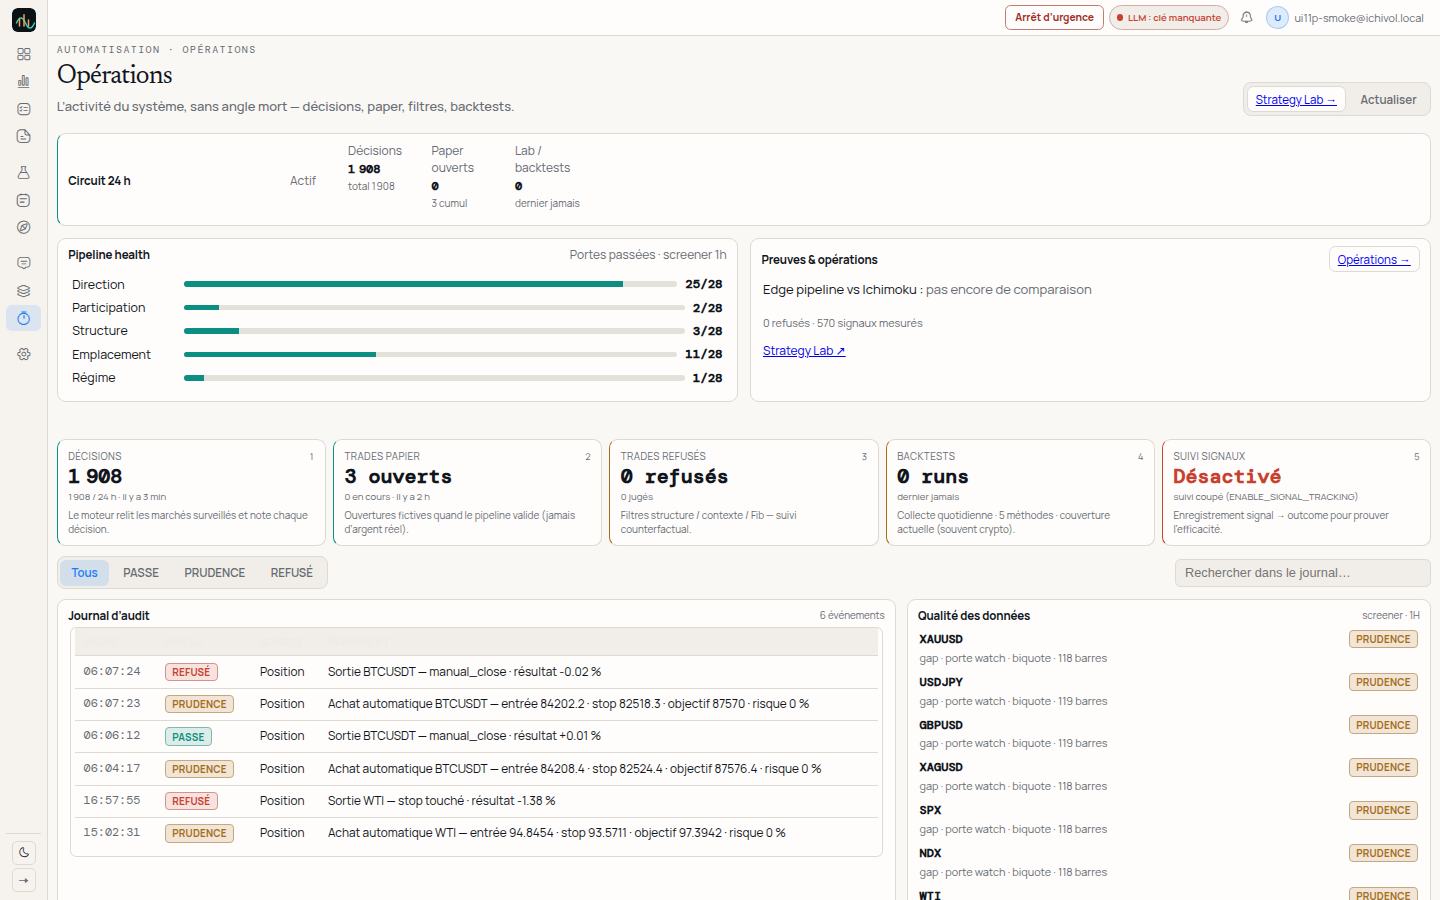
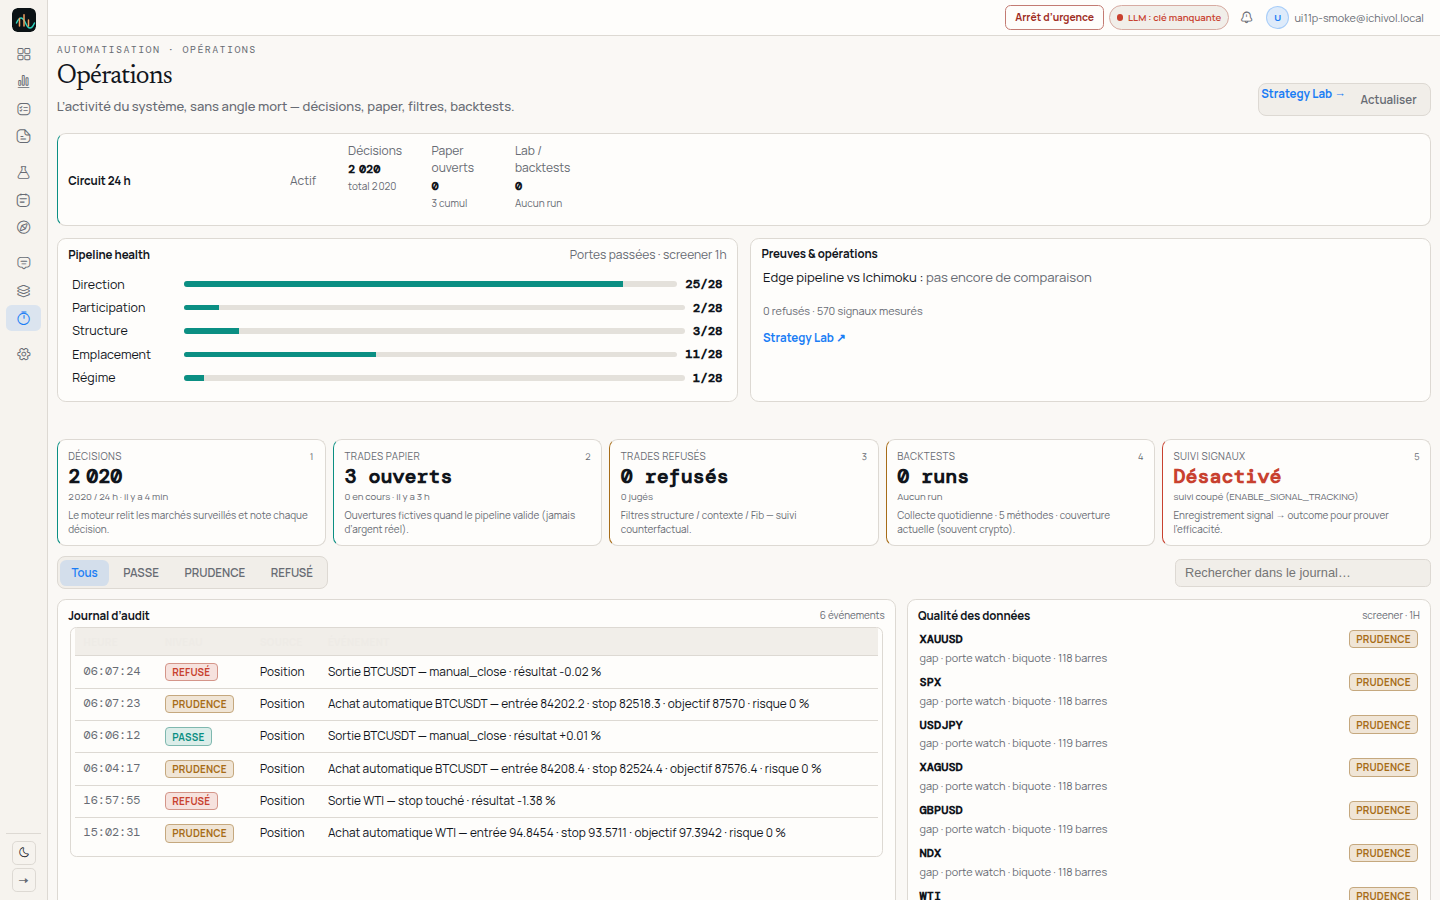
docs(ui-p3): smoke captures + handoff merge/VPS
Smoke desktop+mobile 390 PASS — Aucun run, pas de self-link Opérations,
liens accent. Handoff prêt merge #101 + déploiement VPS.

diff --git a/docs/HANDOFF-CURSOR-V3.md b/docs/HANDOFF-CURSOR-V3.md
@@ -7,13 +7,27 @@ Claude lit ce fichier sur GitHub et relit le diff de la PR associée.
 
 ---
 
+## 2026-09-25 — UI-P3 corrections + merge + VPS
+
+- PR : https://github.com/samiriggui-code/IchiVol/pull/101 — squash merge après corrections
+- Branche : `cursor/ui-p3-journal-ops-a2fe` · tip `c92201b` (+ captures smoke)
+- **Exception server minimale** : `PATCH /api/decisions/:id` accepte `note` (trim, max 500, vide→null) · ownership user → 404 sinon · update in-place (archivée sans doublon)
+- Client : `patchUserDecisionNote` · Journal n’utilise plus `confirmUserDecision` pour la note
+- Opérations : liens accent (pas de soulignement bleu) · pas de self-link « Opérations → » · « Aucun run » si jamais de backtest
+- Tests : `server/.../patchNote.test.ts` 8/8 · lint/build · `scripts/smoke-ui-p3.mjs` desktop+mobile 390 — **PASS**
+- Captures : [`docs/ui-p3/`](./ui-p3/)
+
+### Suite
+UI-P4 (Marché, Lab, Contexte, Copilot, Agents, Paramètres + pill PAPER) + audit agents en **PR draft** — **ne pas merger** avant relecture Claude.
+
+---
+
 ## 2026-09-25 — UI-P2 corrections + merge
 
-- PR : https://github.com/samiriggui-code/IchiVol/pull/100 — squash merge après corrections
-- Branche : `cursor/ui-p2-portfolio-opps-a2fe` · tip `184de0c`
+- PR : https://github.com/samiriggui-code/IchiVol/pull/100 — squash merge après corrections · tip main `1b620d3`
+- Branche : `cursor/ui-p2-portfolio-opps-a2fe`
 - Corrections : Drawdown « Depuis le plus haut » · montants page via `fmtEur` fr-FR (€)
 - Captures : [`docs/ui-p2/`](./ui-p2/) · smoke PASS
-- **Vérifier** tip `main` après merge
 
 ### Suite
 UI-P3 rebase sur main → corrections note PATCH + ops polish → merge + VPS.
